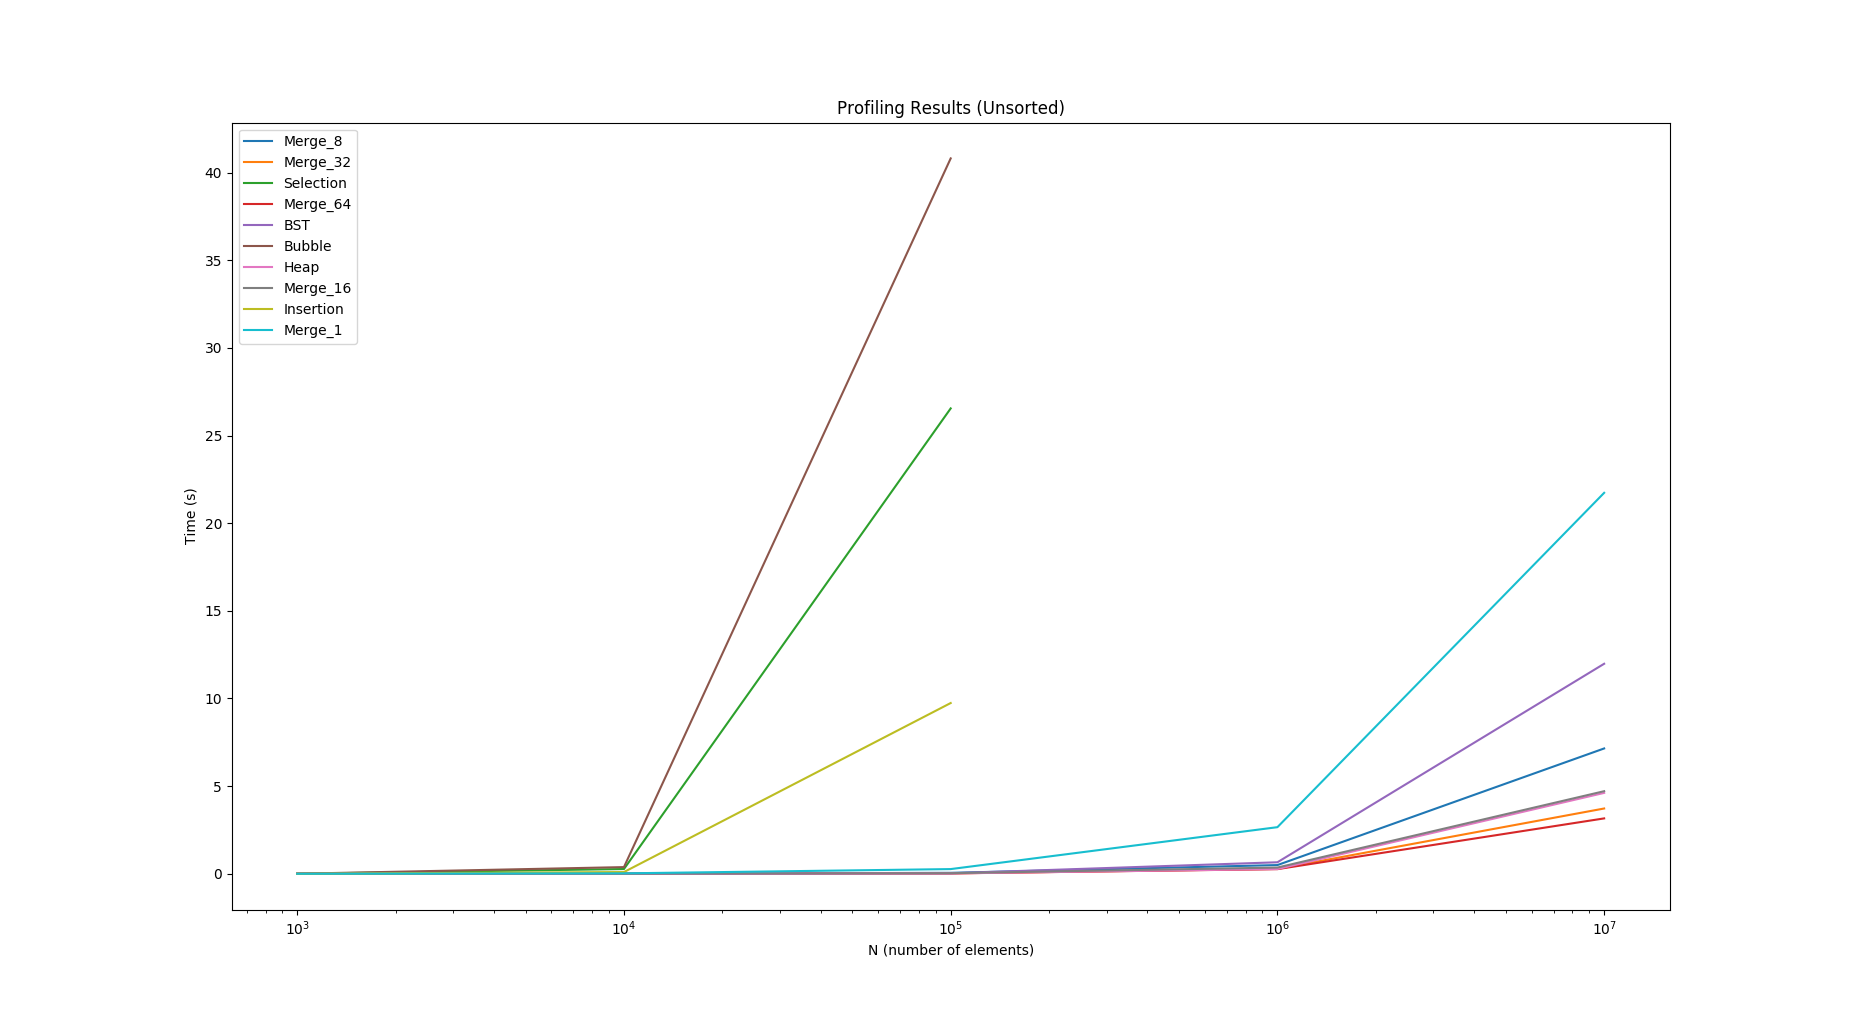
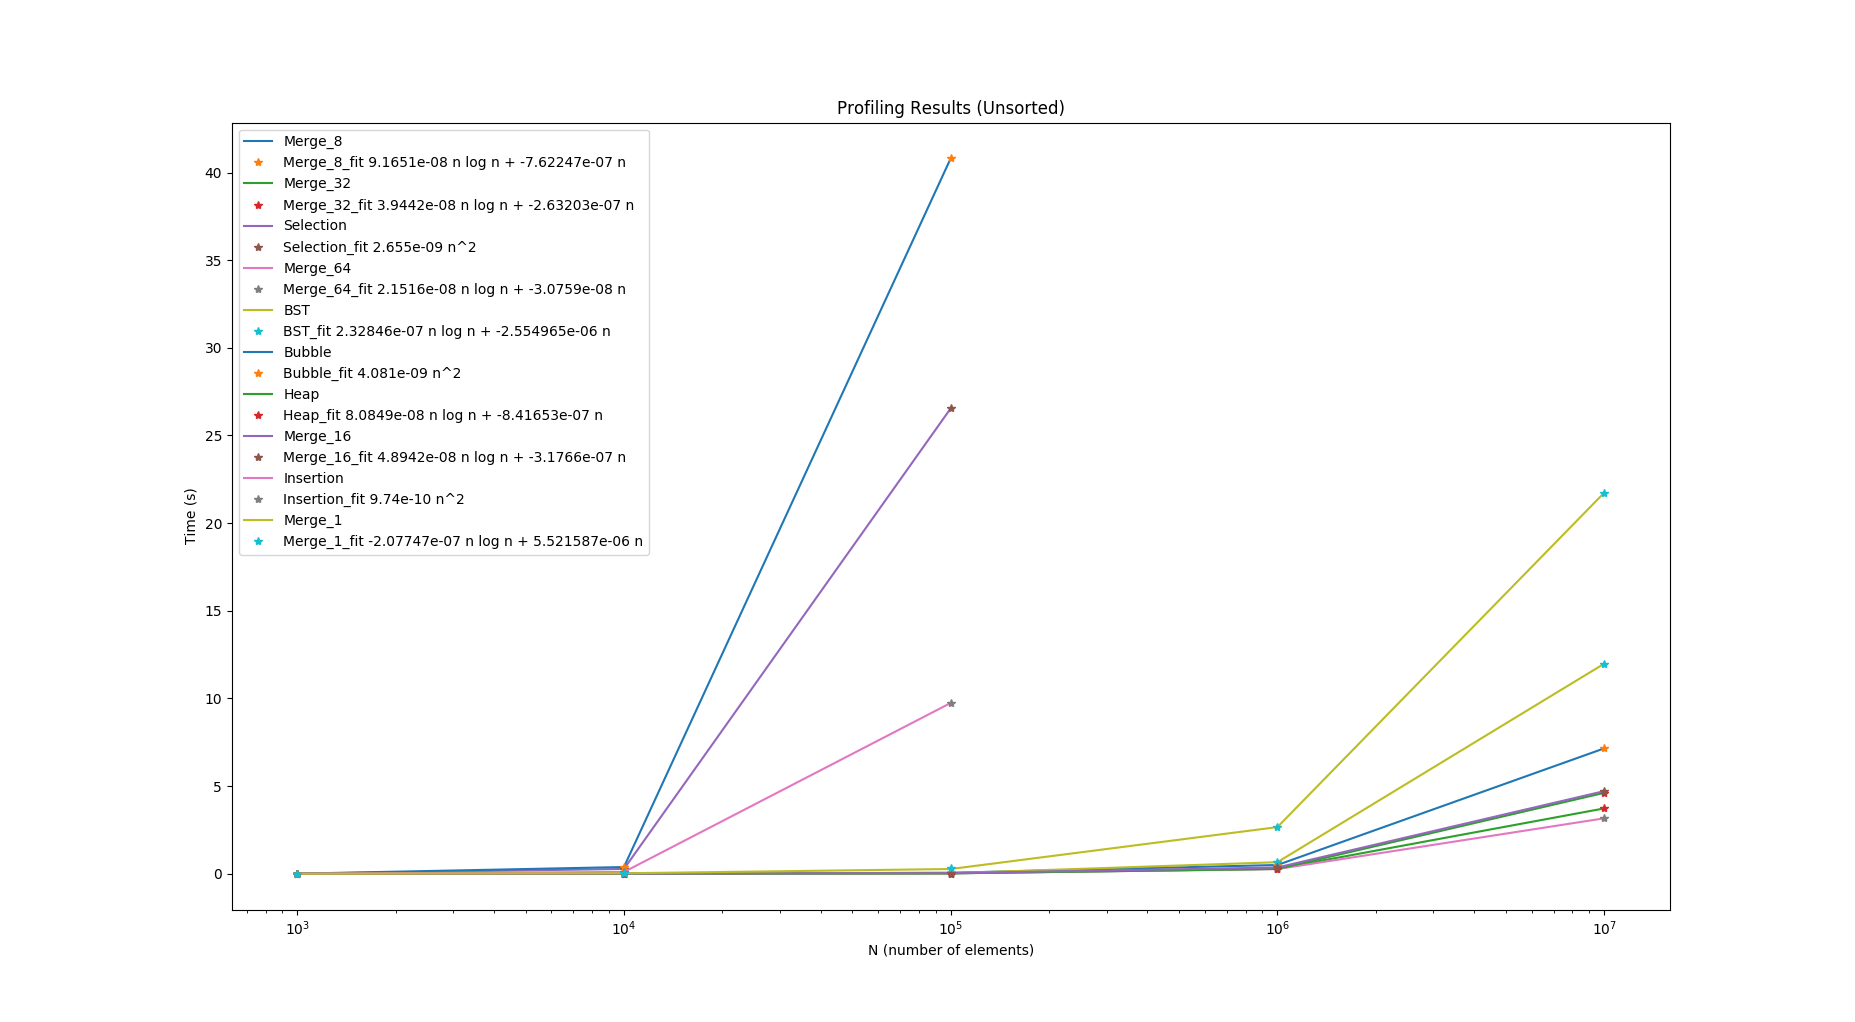
finished!

Changed region(s): [[0.1536, 0.1517, 0.338, 0.546], [0.1844, 0.7583, 0.8604, 0.8796]]

diff --git a/fitPlotProfiling.py b/fitPlotProfiling.py
@@ -18,7 +18,7 @@ PATH = './' # Use your path
 
 ### Fetch all files in path
 fileNames = os.listdir(PATH)
-mode = "_sorted"
+mode = "half-sorted"
 ### Filter file name list for files ending with .csv
 fileNames = [file for file in fileNames if mode in file]
 
@@ -43,8 +43,7 @@ for file in fileNames:
             popt, pcov = curve_fit(square, x, y)
             plt.semilogx(x, square(x, *popt), '*', label = label + "_fit " + str(round(popt[0],12)) + ' n^2')
 
-    elif mode is "_sorted":
-        print(file) 
+    elif mode is "completely-sorted":
         if "Merge" in file or "Heap" in file:
             popt, pcov = curve_fit(log, x, y)
             plt.semilogx(x, log(x, *popt), '*', label = label + "_fit " + str(round(popt[0],12)) + ' n log n + ' + str(round(popt[1],12)) + ' n')
